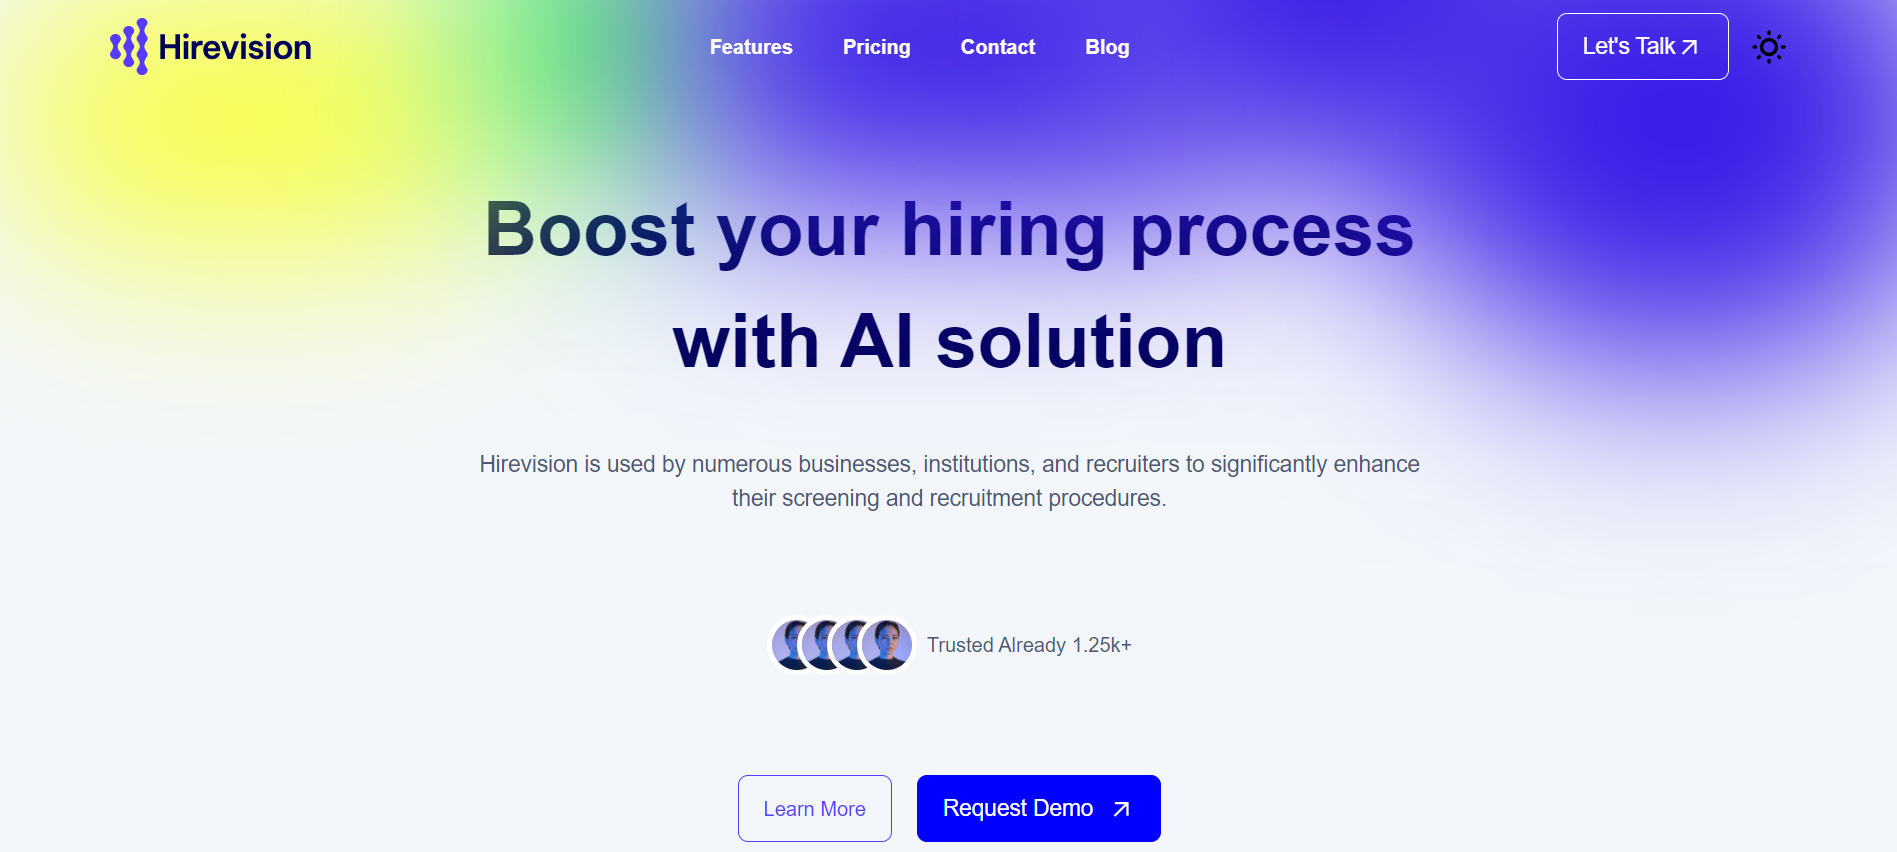
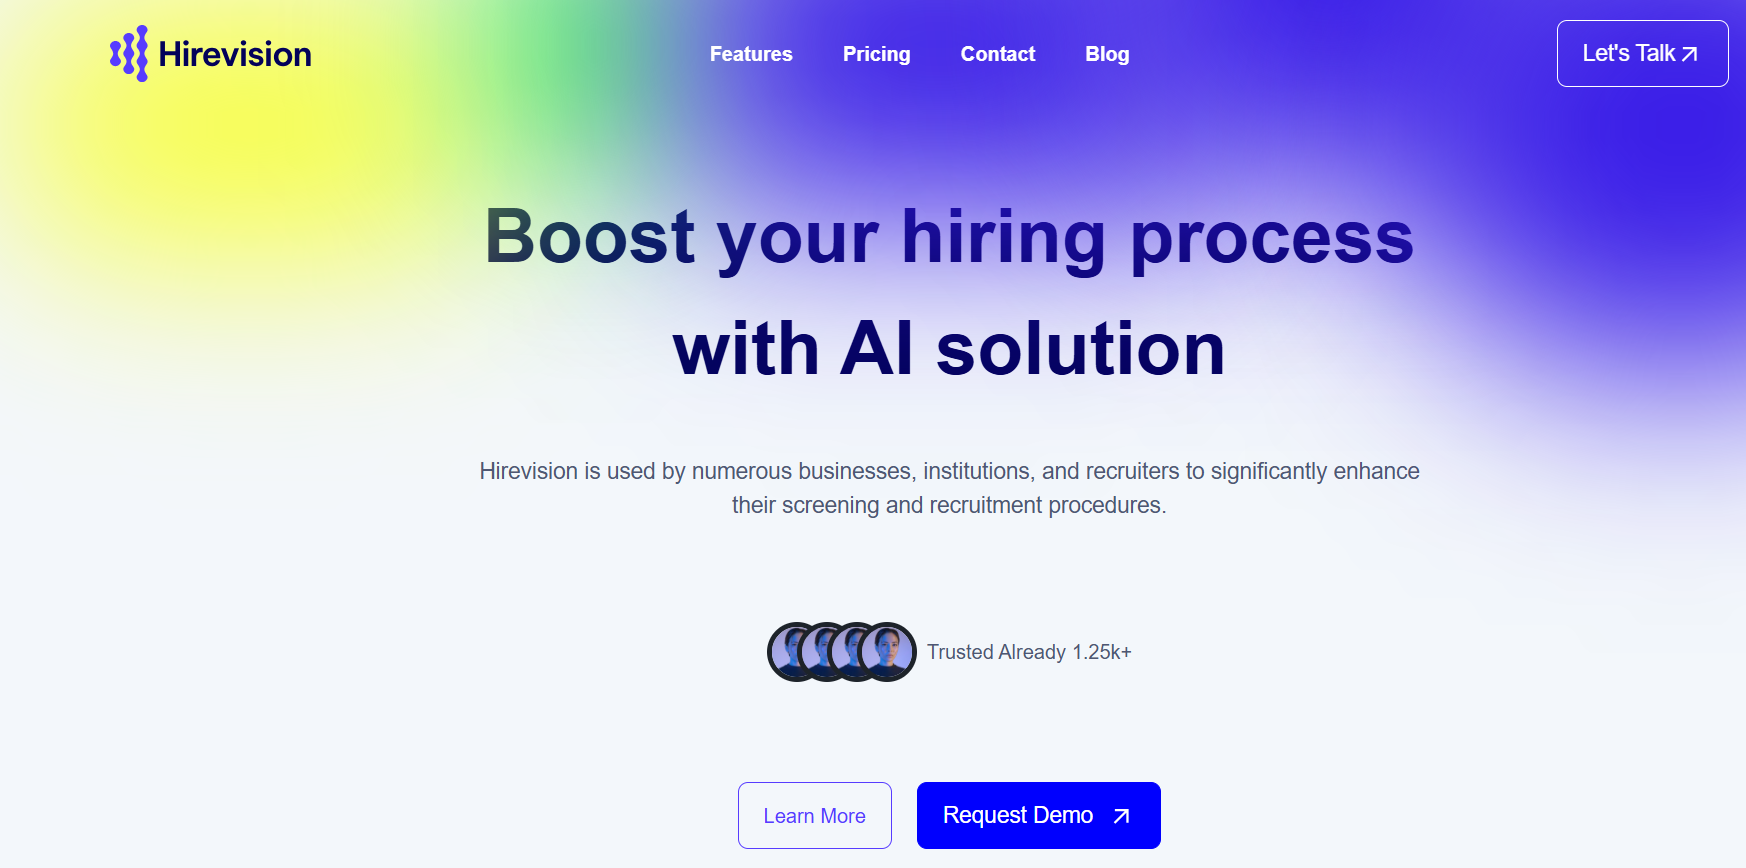
mobile design

diff --git a/src/components/Header.jsx b/src/components/Header.jsx
@@ -1,113 +1,94 @@
-import React from "react";
+import React, { useState } from "react";
 import {
+  Avatar,
+  IconButton,
   Navbar,
   Typography,
-  Button,
-  IconButton,
-  Avatar
 } from "@material-tailwind/react";
+import { FaHome, FaUser, FaCode, FaBriefcase, FaPhone } from "react-icons/fa"; // Using icons from Font Awesome
 
-import { Bars3Icon, XMarkIcon } from "@heroicons/react/24/outline";
 import logo from "../assets/logo.png";
 
 export function NavbarForDropdownWithMultipleLanguages() {
-  const [openNav, setOpenNav] = React.useState(false);
+  const [activeLink, setActiveLink] = useState(""); // To keep track of the active link
 
-  // Handle resize and scroll events
-  React.useEffect(() => {
-    const handleResize = () => window.innerWidth >= 960 && setOpenNav(false);
-    const handleScroll = () => setOpenNav(false);
+  const navItems = [
+    { name: "Home", href: "#home", icon: <FaHome className="h-6 w-6" /> },
+    { name: "About", href: "#about", icon: <FaUser className="h-6 w-6" /> },
+    { name: "Skills", href: "#skills", icon: <FaCode className="h-6 w-6" /> },
+    {
+      name: "Projects",
+      href: "#projects",
+      icon: <FaBriefcase className="h-6 w-6" />,
+    },
+    {
+      name: "Contact",
+      href: "#contact",
+      icon: <FaPhone className="h-6 w-6" />,
+    },
+  ];
 
-    window.addEventListener("resize", handleResize);
-    window.addEventListener("scroll", handleScroll);
-
-    return () => {
-      window.removeEventListener("resize", handleResize);
-      window.removeEventListener("scroll", handleScroll);
-    };
-  }, []);
-
-  const navList = (
-    <ul className="mb-4 mt-2 flex flex-col gap-2 lg:mb-0 lg:mt-0 lg:flex-row lg:items-center lg:gap-6">
-      <Typography
-        as="li"
-        variant="small"
-        color="white"
-        className="p-1 font-medium"
-      >
-        <a href="#home" className="flex items-center hover:text-[#40ffa3] hover:font-bold">
-          Home
-        </a>
-      </Typography>
-      <Typography
-        as="li"
-        variant="small"
-        color="white"
-        className="p-1 font-medium"
-      >
-        <a href="#about" className="flex items-center hover:text-[#40ffa3] hover:font-bold">
-          About
-        </a>
-      </Typography>
-      <Typography
-        as="li"
-        variant="small"
-        color="white"
-        className="p-1 font-medium"
-      >
-        <a href="#skills" className="flex items-center hover:text-[#40ffa3] hover:font-bold">
-          Skills
-        </a>
-      </Typography>
-      <Typography
-        as="li"
-        variant="small"
-        color="white"
-        className="p-1 font-medium"
-      >
-        <a href="#projects" className="flex items-center hover:text-[#40ffa3] hover:font-bold">
-          Projects
-        </a>
-      </Typography>
-      <Typography
-        as="li"
-        variant="small"
-        color="white"
-        className="p-1 font-medium"
-      >
-        <a href="#contact">
-          <Button className="flex items-center text-[#004080] bg-[#40ffa3] font-bold text-md">
-            Let's Talk!
-          </Button>
-        </a>
-      </Typography>
-    </ul>
-  );
+  // Function to handle link click for mobile and desktop
+  const handleLinkClick = (href) => {
+    setActiveLink(href);
+  };
 
   return (
-    <div className="pt-10">
-      <Navbar className="mx-auto max-w-screen-xl px-4 lg:px-8 lg:py-4 shadow-2xl gradient-header">
+    <div className="pt-2">
+      {/* Desktop Navbar */}
+      <Navbar className="mx-auto max-w-screen-xl px-4 lg:px-8 lg:py-4 shadow-2xl gradient-header w-full hidden md:block">
         <div className="flex items-center justify-between text-white">
           <Typography as="a" href="#" className="cursor-pointer">
-          <Avatar src={logo} alt="avatar" className="filter brightness-0 invert" />
+            <Avatar
+              src={logo}
+              alt="avatar"
+              className="filter brightness-0 invert"
+            />
           </Typography>
-          <div className="mr-4 hidden lg:block">{navList}</div>
-          <IconButton
-            variant="text"
-            className="lg:hidden"
-            onClick={() => setOpenNav(!openNav)}
-          >
-            {openNav ? (
-              <XMarkIcon className="h-6 w-6 text-white" strokeWidth={2} />
-            ) : (
-              <Bars3Icon className="h-6 w-6 text-white" strokeWidth={2} />
-            )}
-          </IconButton>
-        </div>
-        <div className={`lg:hidden ${openNav ? "block" : "hidden"}`}>
-          {navList}
+          <div className="mr-4">
+            <ul className="mb-4 mt-2 flex flex-col gap-2 lg:mb-0 lg:mt-0 lg:flex-row lg:items-center lg:gap-6 w-full">
+              {navItems.map((item, index) => (
+                <Typography
+                  key={index}
+                  as="li"
+                  variant="small"
+                  color="white"
+                  className={`p-1 font-medium ${
+                    activeLink === item.href ? "text-[#40ffa3]" : ""
+                  }`}
+                >
+                  <a
+                    href={item.href}
+                    onClick={() => handleLinkClick(item.href)} // Update active link
+                    className="flex items-center hover:text-[#40ffa3]"
+                  >
+                    {item.icon}
+                    <span className="ml-2">{item.name}</span>
+                  </a>
+                </Typography>
+              ))}
+            </ul>
+          </div>
         </div>
       </Navbar>
+
+      {/* Mobile Navbar */}
+      <div className="lg:hidden fixed bottom-0 left-0 w-full bg-[#040e2a] p-4  shadow-lg h-14 flex justify-around items-center z-50">
+        {navItems.map((item, index) => (
+          <IconButton
+            key={index}
+            className="text-white rounded-full"
+            onClick={() => handleLinkClick(item.href)}
+          >
+            <a
+              href={item.href}
+              className="flex items-center justify-center rounded-full p-2 hover:bg-[#40ffa3]"
+            >
+              {item.icon}
+            </a>
+          </IconButton>
+        ))}
+      </div>
     </div>
   );
 }

diff --git a/src/components/ProjectBox.jsx b/src/components/ProjectBox.jsx
@@ -2,37 +2,30 @@ import React from "react";
 import { Avatar } from "@material-tailwind/react";
 import github from "../assets/github.png";
 
-function ProjectBox({ src, title, heading, logo,link,repolink }) {
+function ProjectBox({ src, title, heading, link, repolink }) {
   return (
-    <div className="px-5 md:px-10 lg:px-20 mt-10">
-      <div className="flex flex-col lg:flex-row bg-gradient-to-r from-[#050505] via-[#000e2a] to-[#0c1b44] border border-white/100 rounded-3xl shadow-lg items-end">
+    <div className="w-full sm:w-6/12 md:w-4/12 px-4">
+      <div className="flex flex-col bg-gradient-to-r from-[#050505] via-[#000e2a] to-[#0c1b44] border border-white/100 shadow-lg items-end rounded-xl overflow-hidden h-full">
         {/* Right Section (Image) */}
-        <div className="w-full lg:w-1/2">
-          <div className="hidden lg:flex w-24 h-24 lg:w-32 lg:h-32 justify-center items-center">
-            <img
-              src={logo}
-              alt="Project Logo"
-              className="w-full h-full object-contain"
-            />
-          </div>
+        <div className="w-full h-52 md:h-64 lg:h-72 relative">
           <img
             src={src}
             alt="Project Screenshot"
-            className="w-full h-auto lg:rounded-bl-3xl lg:rounded-tl-none lg:rounded-tr-none rounded-tl-3xl rounded-tr-3xl object-cover"
+            className="w-full h-full object-cover"
           />
         </div>
 
-        {/* Left Section */}
-        <div className="w-full lg:w-1/2 flex flex-col justify-center items-center lg:items-start px-4 lg:px-10">
-          <h1 className="text-white font-bold text-lg lg:text-2xl text-center lg:text-left py-5">
+        {/* Left Section (Content) */}
+        <div className="w-full flex flex-col justify-between px-4 py-5 flex-grow">
+          <h1 className="text-white font-bold text-lg lg:text-2xl text-center lg:text-left">
             {heading}
           </h1>
-          <p className="text-white text-sm lg:text-base text-justify">
+          <p className="text-white text-sm lg:text-base text-justify mt-2">
             {title}
           </p>
 
           {/* GitHub and Live View Button */}
-          <div className="flex space-x-4 items-center mt-10 mb-5 lg:my-20 cursor-pointer">
+          <div className="flex space-x-4 items-center mt-4 cursor-pointer">
             <a href={repolink}>
               <Avatar
                 src={github}

diff --git a/src/components/Project.jsx b/src/components/Project.jsx
@@ -1,28 +1,24 @@
 import React from "react";
 import proImage from "../assets/skill.png";
 import ProjectBox from "./ProjectBox";
-import BridgeLogo from "../assets/bridgelogo.png";
 import hirevision from "../assets/hirevision.png";
-import hirevisionlogo from "../assets/hirevisionlogo.png";
 function Project() {
   const projects = [
     {
       src: proImage,
       title:
         "A MERN stack web application that connects users directly with skilled workers. Features include user authentication, SMTP server integration for email notifications, and real-time communication between users and workers. The app is fully responsive, providing a seamless experience across all devices.",
-      logo: BridgeLogo,
       heading: "Skills-Bridge",
-      link:"http://ashad-jamal.me/skillBridge/",
-      repolink:"https://github.com/ASHAD-JAMAL/skillBridge.git",
+      link: "http://ashad-jamal.me/skillBridge/",
+      repolink: "https://github.com/ASHAD-JAMAL/skillBridge.git",
     },
     {
       src: hirevision,
       title:
         "HireVision is a human resources service company that focuses on helping small and midsize businesses optimize their hiring processes. They offer a wide range of HR services, from hiring and retaining employees to providing fully integrated HR management solutions. Unlike traditional staffing agencies, HireVision acts as an extension of a company’s HR department, providing tailored services to fit the specific needs of their clients.",
-      logo: hirevisionlogo,
       heading: "Hire-Vision",
-      link:"https://hire-vision.vercel.app/",
-      repolink:"https://github.com/ASHAD-JAMAL/HireVision.git",
+      link: "https://hire-vision.vercel.app/",
+      repolink: "https://github.com/ASHAD-JAMAL/HireVision.git",
     },
   ];
   return (
@@ -38,7 +34,7 @@ function Project() {
           </h4>
         </div>
       </div>
-      <div className="second-section py-10">
+      <div className="second-section py-10 flex flex-wrap justify-between gap-y-10">
         {projects.map((project, index) => (
           <ProjectBox
             key={index}

diff --git a/src/components/Contact.jsx b/src/components/Contact.jsx
@@ -101,19 +101,19 @@ export function SimpleRegistrationForm() {
 
 function Contact() {
   return (
-    <div className="flex flex-col md:flex-row justify-center items-center mx-auto p-4 md:p-8 lg:p-12">
+    <div className="flex flex-col md:flex-row justify-center items-center mx-auto md:p-8 lg:p-12">
       <div className="w-full md:w-1/2 p-6">
-        <div className="bg-gradient-to-r from-black via-[#000e2a] to-[#0c1b44] shadow-2xl md:border-none border rounded-3xl p-8">
+        <div className="bg-gradient-to-r from-black via-[#000e2a] to-[#0c1b44] shadow-2xl md:border-none border md:rounded-3xl rounded-xl md:p-8 p-2">
           <SimpleRegistrationForm />
         </div>
       </div>
       <div className="w-full md:w-1/2 flex flex-col items-center p-6">
-        <div className="text-center mb-8">
+        <div className="text-center md:mb-8 mb-2">
           <h1 className="text-3xl md:text-4xl lg:text-5xl font-bold bg-gradient-to-r from-blue-600 via-green-500 to-indigo-400 inline-block text-transparent bg-clip-text">
             Get In Touch
           </h1>
         </div>
-        <div className="flex gap-4 justify-center">
+        <div className="flex gap-4 justify-center mb-10 md:mb-0">
           <a
             href="https://linkedin.com/in/ashad-jamal"
             target="_blank"

diff --git a/src/components/Skills.jsx b/src/components/Skills.jsx
@@ -29,16 +29,19 @@ function Skills() {
   ];
 
   return (
-    <div id="skill" className="md:py-20 items-center justify-between md:px-20 md:pt-20">
+    <div
+      id="skill"
+      className="md:py-20 items-center justify-between md:px-20 md:pt-20"
+    >
       <div className="first-section flex flex-col items-center md:items-start md:w-1/2">
-        <div className="flex items-center gap-4  pt-10">
+        <div className="flex items-center gap-4 pt-10">
           <hr className="w-32 h-2 text-white font-bold hidden md:block" />
           <h4 className="text-[#40ffa3] font-bold md:text-lg text-3xl">
             Skills
           </h4>
         </div>
       </div>
-      <div className="second-section grid grid-cols-3 md:grid-cols-5 lg:grid-cols-5 gap-8 py-10">
+      <div className="second-section grid grid-cols-3 md:grid-cols-5 lg:grid-cols-5 gap-y-8 py-10">
         {skills.map((skill, index) => (
           <Box key={index} src={skill.src} title={skill.title} />
         ))}

diff --git a/src/components/Box.jsx b/src/components/Box.jsx
@@ -6,8 +6,8 @@ function Box({ src, title }) {
   return (
     <div className="flex justify-center my-5">
       <Tooltip content={title}>
-        <div className="bg-gradient-to-r from-black via-[#000e2a] to-[#0c1b44] w-[80px] h-[80px]  border border-white rounded-full flex items-center justify-center mx-auto">
-          <div className="w-[60px] h-[60px]  flex items-center justify-center rounded-full overflow-hidden">
+        <div className="bg-gradient-to-r from-black via-[#000e2a] to-[#0c1b44] w-[80px] h-[80px] md:w-[120px] md:h-[120px]  border border-white rounded-full flex items-center justify-center mx-auto">
+          <div className="w-[60px] h-[60px] md:w-[100px] md:h-[100px] flex items-center justify-center rounded-full overflow-hidden">
             <img src={src} className="w-full h-full object-cover" />
           </div>
         </div>

diff --git a/src/App.jsx b/src/App.jsx
@@ -3,15 +3,17 @@ import Header from "./components/Header";
 import Home from "./components/Home";
 import About from "./components/About";
 import Skills from "./components/Skills";
-import Project from "./components/Project";
 import Contact from "./components/Contact";
 import "./App.css";
+import ProjectList from "./components/Project";
 
 function App() {
   return (
     <>
       <Header />
-      <div id="home"> {/* Added padding to avoid overlap */}
+      <div id="home">
+        {" "}
+        {/* Added padding to avoid overlap */}
         <Home />
       </div>
       <div id="about">
@@ -21,7 +23,7 @@ function App() {
         <Skills />
       </div>
       <div id="projects">
-        <Project />
+        <ProjectList />
       </div>
       <div id="contact">
         <Contact />

diff --git a/src/index.css b/src/index.css
@@ -1,3 +1,14 @@
 @tailwind base;
 @tailwind components;
 @tailwind utilities;
+
+/* Add these styles in your CSS file (or use Tailwind's utility classes) */
+.project-slider {
+  max-width: 1200px; /* Limit the width of the slider */
+  margin: 0 auto; /* Center the slider on the page */
+}
+
+.swiper-slide {
+  display: flex;
+  justify-content: center; /* Ensure that the ProjectBox is centered within the slide */
+}

diff --git a/tailwind.config.js b/tailwind.config.js
@@ -7,3 +7,4 @@ module.exports = withMT({
   },
   plugins: [],
 });
+
